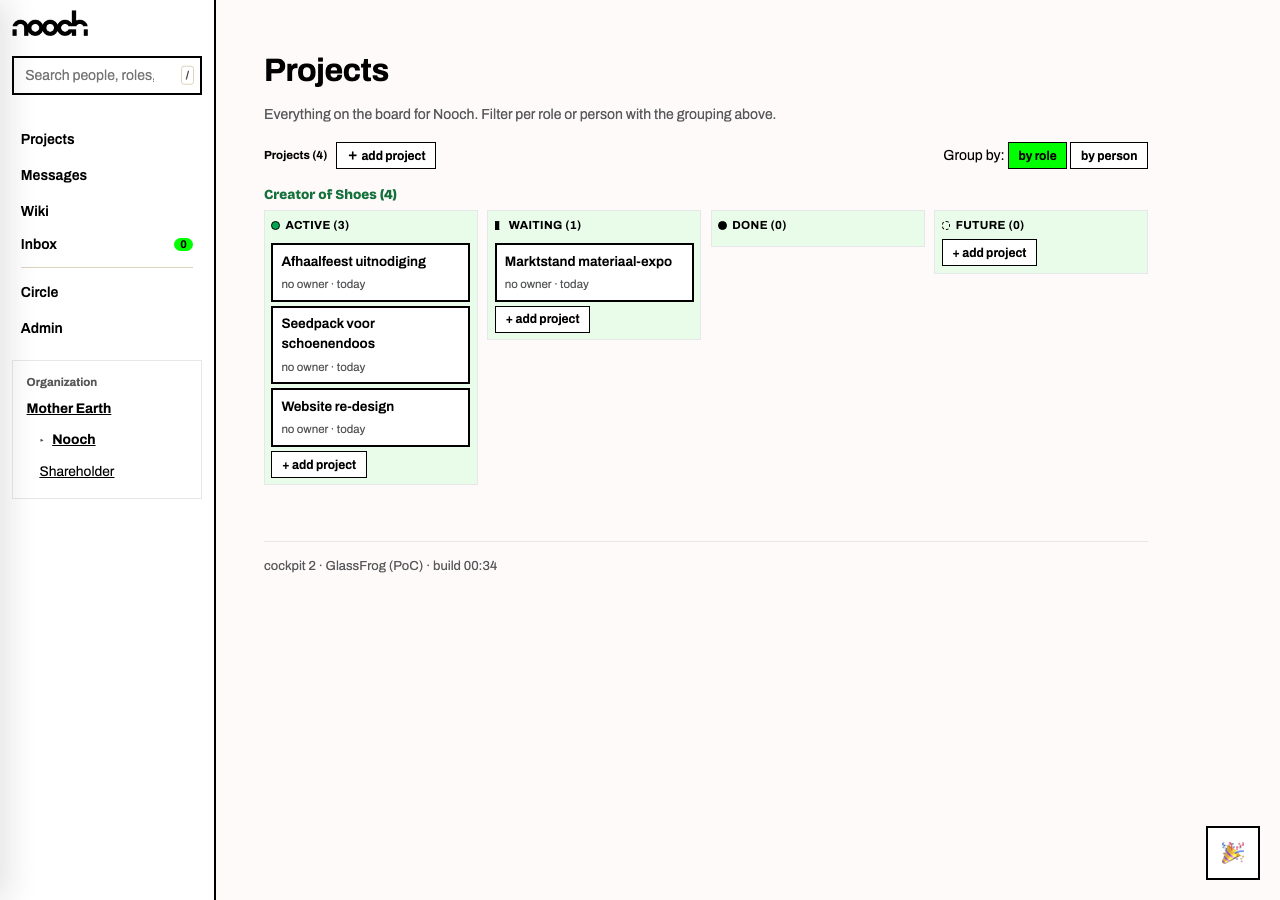
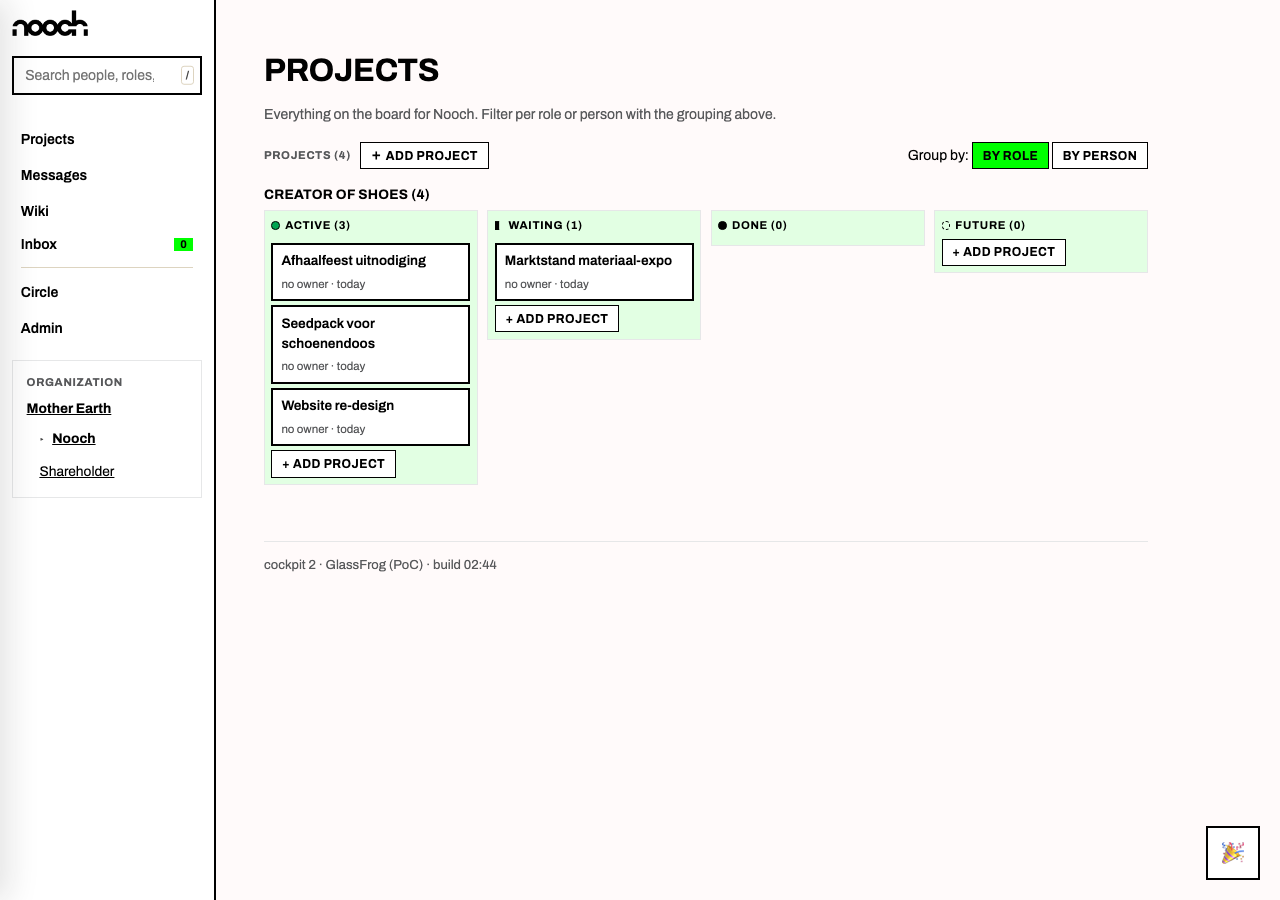
Punt 2, stap 2: de vier typografiepunten uit de referentiebeelden
1. Koppen in hoofdletters. `.nu h2, .nu h3` zette hier expliciet
   text-transform:none; de productpagina heeft geen enkele kop in onderkast
   (NINE PLANTS ONE SHOE, GROW A PAIR, QUESTIONS PEOPLE ACTUALLY ASKED).
2. Knoptekst in hoofdletters (ORDER NOW, ALL REVIEWS, READ THE LETTERS).
3. De laatste ronde hoek eraf: `.c2-navct` stond op border-radius 999px.
4. De eyebrow.

Over die eyebrow. Hij leek te ontbreken, maar hij bestond al ELF keer onder
elf namen (.c2-sec h3, .tree h3, .pcol-h, .fkicker, .rovm-kind, .sec-kop,
.menu-h, .dk, .att-lbl, .cl-group h4, .chip.coral-solid) - allemaal ~.7rem,
uppercase, letter-spacing .04em, gewicht 700. Een twaalfde naam toevoegen zou
dat erger maken, dus `.nu-eyebrow` is nu de definitie en de bestaande namen
wijzen ernaar binnen `.nu`. Reference, don't copy, toegepast op een stijl in
plaats van op een getal.

De structurele test vond er nog vijf die ik zelf had gemist (.psec-h,
.pchip-k, .rail-kop, .wz-k, .wz-clab) plus zes die er bewust buiten blijven,
met de reden per stuk in de test: een staat op het geparkeerde /metrics2, de
andere vijf zijn dode CSS na fase 1-9. Zestien namen dus, niet elf.

Twee dingen zag alleen de browser:
- `+ add project` en `by role / by person` bleven in onderkast staan. Het zijn
  links die als knop gelezen worden (.addlink, .vswitch a) en vielen dus
  buiten `.nu .btn`. In de broncode onzichtbaar.
- De groepskop op het bord (.swim-h, "Creator of Shoes") stond op #14713C -
[…]

diff --git a/nooch_village/static/nooch-ui.css b/nooch_village/static/nooch-ui.css
@@ -42,9 +42,9 @@
 
 /* ── Typografie ────────────────────────────────────────────────────────────────────────────── */
 .nu h1 { font-family: var(--nu-font); font-weight: 700; font-size: clamp(1.5rem,1.4vw + 1rem,2rem);
-  line-height: 1.15; color: var(--nu-text); letter-spacing: -.01em; }
+  line-height: 1.15; color: var(--nu-text); text-transform: uppercase; letter-spacing: -.005em; }
 .nu h2, .nu h3 { font-family: var(--nu-font); font-weight: 700; color: var(--nu-text);
-  text-transform: none; letter-spacing: 0; }
+  text-transform: uppercase; letter-spacing: .01em; }
 .nu a { color: var(--nu-accent-text); }
 .nu .muted { color: var(--nu-muted); }
 
@@ -54,13 +54,14 @@
 .nu .c2-side { border-right: var(--nu-border); background: var(--nu-surface); }
 .nu .c2-subnav a, .nu .c2-navbtn { border-radius: 0; color: var(--nu-text); }
 .nu .c2-subnav a:hover, .nu .c2-navbtn:hover { background: var(--nu-text); color: var(--nu-surface); }
-.nu .c2-navct { background: var(--nu-neon); color: var(--nu-text); border-radius: 999px; }
+.nu .c2-navct { background: var(--nu-neon); color: var(--nu-text); border-radius: 0; }
 
 /* ── Knoppen: zwart-op-wit, hover inverteert ──────────────────────────────────────────────── */
 .nu .btn {
   font-family: var(--nu-font); font-weight: 700; font-size: .9rem; border: var(--nu-border);
   border-radius: 0; background: var(--nu-surface); color: var(--nu-text);
-  padding: .5em 1em; min-height: 38px; box-shadow: none; }
+  padding: .5em 1em; min-height: 38px; box-shadow: none;
+  text-transform: uppercase; letter-spacing: .04em; }
 .nu .btn:hover { background: var(--nu-text); color: var(--nu-surface); }
 .nu .btn.ok { background: var(--nu-neon); border-color: var(--nu-text); color: var(--nu-text); }
 .nu .btn.ok:hover { background: var(--nu-text); color: var(--nu-neon); }
@@ -161,6 +162,7 @@
    `.addlink` en `.vswitch a` zijn links die als knop worden gelezen. Ze droegen nog de oude
    pill-vorm met groene vulling — één scherm met twee knopvormen leest als twee systemen. */
 .nu .addlink, .nu .vswitch a, .nu .flink {
+  text-transform: uppercase; letter-spacing: .04em;
   border: 1.5px solid var(--nu-text); border-radius: 0; background: var(--nu-surface);
   color: var(--nu-text); font-family: var(--nu-font); font-weight: 700; padding: .3em .8em; }
 .nu .addlink:hover, .nu .vswitch a:hover, .nu .flink:hover {
@@ -206,3 +208,38 @@
 .nu .qadd-form textarea { border: var(--nu-border); border-radius: 0; box-shadow: none;
   background: var(--nu-surface); color: var(--nu-text); font-family: var(--nu-font); }
 .nu .qadd-x { color: var(--nu-text); font-family: var(--nu-font); }
+
+/* ── De eyebrow: één definitie voor wat er al elf keer stond ──────────────────────────────────
+   De referentie zet boven elke kop een klein hoofdletter-labeltje: THE PROOF, THE PRICE, THE PACT,
+   THE PEOPLE, WHAT'S IN IT. Dat component leek te ontbreken — maar het bestond al, elf keer, onder
+   elf namen: `.c2-sec h3`, `.tree h3`, `.pcol-h`, `.fkicker`, `.rovm-kind`, `.sec-kop`, `.menu-h`,
+   `.dk`, `.att-lbl`, `.cl-group h4`, `.chip.coral-solid` — en de structurele test vond er nog
+   vijf op de negentien schermen: `.psec-h`, `.pchip-k`, `.rail-kop`, `.wz-k`, `.wz-clab`.
+   Zestien namen dus, allemaal ~.7rem, uppercase, letter-spacing .04em, gewicht 700 — hetzelfde
+   ding, zestien keer apart opgeschreven.
+
+   Een TWAALFDE naam toevoegen zou dat erger maken. Dus: `.nu-eyebrow` is de definitie, en de elf
+   bestaande namen wijzen ernaar binnen `.nu`. Zelfde regel als `reference, don't copy`, nu op een
+   stijl in plaats van op een getal. Buiten `.nu` blijft alles zoals het was. */
+.nu .nu-eyebrow,
+.nu .c2-sec h3, .nu .tree h3, .nu .pcol-h, .nu .fkicker, .nu .rovm-kind,
+.nu .sec-kop, .nu .menu-h, .nu .dk, .nu .att-lbl, .nu .cl-group h4,
+.nu .psec-h, .nu .pchip-k, .nu .rail-kop, .nu .wz-k, .nu .wz-clab {
+  font-family: var(--nu-font); font-size: .7rem; font-weight: 700;
+  text-transform: uppercase; letter-spacing: .06em; }
+
+/* Kleur apart, want één uitzondering: de bordkolom-kop draagt al een vormmerk en blijft daarom
+   zwart. Een grijze kop naast een zwart merkteken leest als twee verschillende dingen. */
+.nu .nu-eyebrow,
+.nu .c2-sec h3, .nu .tree h3, .nu .fkicker, .nu .rovm-kind,
+.nu .sec-kop, .nu .menu-h, .nu .dk, .nu .att-lbl, .nu .cl-group h4,
+.nu .psec-h, .nu .pchip-k, .nu .rail-kop, .nu .wz-k, .nu .wz-clab {
+  color: var(--nu-muted); }
+.nu .pcol-h { color: var(--nu-text); }
+
+/* ── De groepskop op het bord ─────────────────────────────────────────────────────────────────
+   `.swim-h` ("Creator of Shoes (4)") stond op `--green-dark` (#14713C) — de kleur die in geen van
+   beide referentiebeelden voorkomt. Het is bovendien een `div`, dus de kopregel `.nu h2, .nu h3`
+   liep er langs. Alleen de browser liet dat zien; in de bron is het een kop als elke andere. */
+.nu .swim-h { color: var(--nu-text); font-family: var(--nu-font); font-weight: 700;
+  text-transform: uppercase; letter-spacing: .02em; }

diff --git a/tests/test_fase10_huisstijl.py b/tests/test_fase10_huisstijl.py
@@ -85,3 +85,96 @@ def test_geen_enkele_nieuwe_regel_valt_buiten_de_nu_scope():
     regels = [r.split("{")[0].strip() for r in _ONTCOM(NU).split("}") if "{" in r]
     buiten = [r for r in regels if r and not r.startswith(".nu") and not r.startswith("@")]
     assert not buiten, f"regels buiten de scope: {buiten}"
+
+
+# ── Typografie: de vier punten die de referentiebeelden letterlijk tonen ─────────────────────
+
+def test_koppen_staan_in_hoofdletters():
+    """NINE PLANTS, ONE SHOE · GROW A PAIR · QUESTIONS PEOPLE ACTUALLY ASKED. Er staat geen enkele
+    kop in onderkast op de productpagina. `.nu h2, .nu h3` zette hier eerst `text-transform: none`."""
+    for sel in (r"\.nu h1", r"\.nu h2, \.nu h3"):
+        blok = re.search(rf"{sel}\s*\{{([^}}]*)\}}", NU, re.S)
+        assert blok, sel
+        assert "text-transform: uppercase" in blok.group(1), sel
+    assert "text-transform: none" not in _ONTCOM(NU).split(".nu .pill")[0]
+
+
+def test_knoptekst_staat_in_hoofdletters():
+    """ORDER NOW · BECOME FOUNDING MEMBER · ALL REVIEWS · READ THE LETTERS."""
+    blok = re.search(r"\.nu \.btn \{([^}]*)\}", NU, re.S)
+    assert blok and "text-transform: uppercase" in blok.group(1)
+
+
+def test_geen_enkele_ronde_hoek_meer():
+    """Structureel, niet op naam: élke border-radius in het bestand moet 0 zijn, met als enige
+    uitzondering de 50% van de statusvormen — dat is vorm-codering, geen decoratie.
+    `.c2-navct` stond op 999px en was de laatste overgebleven pil."""
+    waarden = {w.strip() for w in re.findall(r"border-radius:\s*([^;}]+)", _ONTCOM(NU))}
+    assert waarden <= {"0", "50%"}, f"onverwachte radius: {waarden - {'0', '50%'}}"
+
+
+def test_elke_eyebrow_in_de_oude_css_wordt_aangestuurd():
+    """De vingerafdruk van een eyebrow: klein, hoofdletters, vet. Elke selector in nooch.css die
+    daaraan voldoet moet binnen `.nu` een tegenhanger hebben — anders staat er op een van de
+    negentien schermen nog een groen-of-grijs labeltje in de oude maatvoering."""
+    # Bewust buiten beeld, met de reden erbij. Geen stille uitzonderingen.
+    BUITEN = {
+        ".tile-t": "staat op /metrics2, een van de 27 geparkeerde schermen",
+        ".fkind": "geen enkele view rendert hem nog — dode CSS na fase 1-9",
+        ".einddoc-toggle": "idem, dode CSS",
+        ".smeta dt": "idem, dode CSS",
+        ".kn-spelvraag .wie": "kennisbank-UI, in fase 2b verwijderd — dode CSS",
+        ".wz-now .lb": "idem, dode CSS",
+    }
+    gemist = []
+    for sel, body in re.findall(r"([^{}]+)\{([^{}]*)\}", _ONTCOM(OUD)):
+        maat = re.search(r"font-size:\s*\.(\d+)rem", body)
+        if not (maat and int(maat.group(1)[:2].ljust(2, "0")) <= 78):
+            continue
+        if "text-transform:uppercase" not in body.replace(" ", ""):
+            continue
+        if "font-weight:700" not in body.replace(" ", ""):
+            continue
+        if sel.strip() in BUITEN:
+            continue
+        kern = sel.strip().split()[-1].lstrip(".")
+        if not re.search(rf"\.nu[^{{]*[\s.]{re.escape(kern)}\b", NU):
+            gemist.append(sel.strip())
+    assert not gemist, f"eyebrow-achtige selectors zonder nu-regel: {gemist}"
+
+
+def test_de_eyebrow_is_een_definitie_en_geen_twaalfde_naam():
+    """Elf namen wijzen naar één regel. Zou elk van die elf een eigen blok krijgen, dan is het
+    probleem dat deze stap oplost gewoon verplaatst."""
+    assert NU.count("text-transform: uppercase; letter-spacing: .06em") == 1
+    vorm = re.search(r"([^{}]*\.nu-eyebrow[^{}]*)\{[^}]*letter-spacing: \.06em", NU, re.S)
+    assert vorm and len(re.findall(r"\.nu ", vorm.group(1))) >= 10
+
+
+def test_link_knoppen_staan_ook_in_hoofdletters():
+    """`+ add project` en `by role / by person` zijn links die als knop gelezen worden. Ze vielen
+    buiten `.nu .btn` en bleven dus in onderkast staan terwijl de echte knoppen al om waren — in de
+    broncode onzichtbaar, in de browser meteen te zien."""
+    blok = re.search(r"\.nu \.addlink, \.nu \.vswitch a, \.nu \.flink \{([^}]*)\}", NU, re.S)
+    assert blok and "text-transform: uppercase" in blok.group(1)
+
+
+def test_green_dark_ratchet():
+    """#14713C komt in GEEN van beide referentiebeelden voor, en staat 57 keer in nooch.css.
+
+    Dit is een ratchet in de vorm die het dorp al kent (`_STYLE_WHITELIST`, `_PREFIX_CEILING`):
+    het getal mag alleen omlaag. Elke stap van groep A die een scherm aanpakt hoort er een paar af
+    te halen; komt er één bij, dan is er een oude groene kleur teruggekropen op een scherm dat al
+    om was.
+    """
+    _PLAFOND = 46          # 20 sep 2026: 57 selectors met --green-dark, 11 hebben een nu-tegenhanger
+    zonder = []
+    for sel, body in re.findall(r"([^{}]+)\{([^{}]*)\}", _ONTCOM(OUD)):
+        if "var(--green-dark)" not in body:
+            continue
+        kern = sel.strip().split(",")[0].strip().split()[-1].lstrip(".").split(":")[0]
+        if kern and not re.search(rf"\.nu[^{{]*[\s.]{re.escape(kern)}\b", NU):
+            zonder.append(sel.strip()[:40])
+    assert len(zonder) <= _PLAFOND, (
+        f"{len(zonder)} selectors met --green-dark zonder nu-tegenhanger (plafond {_PLAFOND}). "
+        f"Gestegen? Dan is er een oude groentint teruggekomen: {zonder[:5]}")
